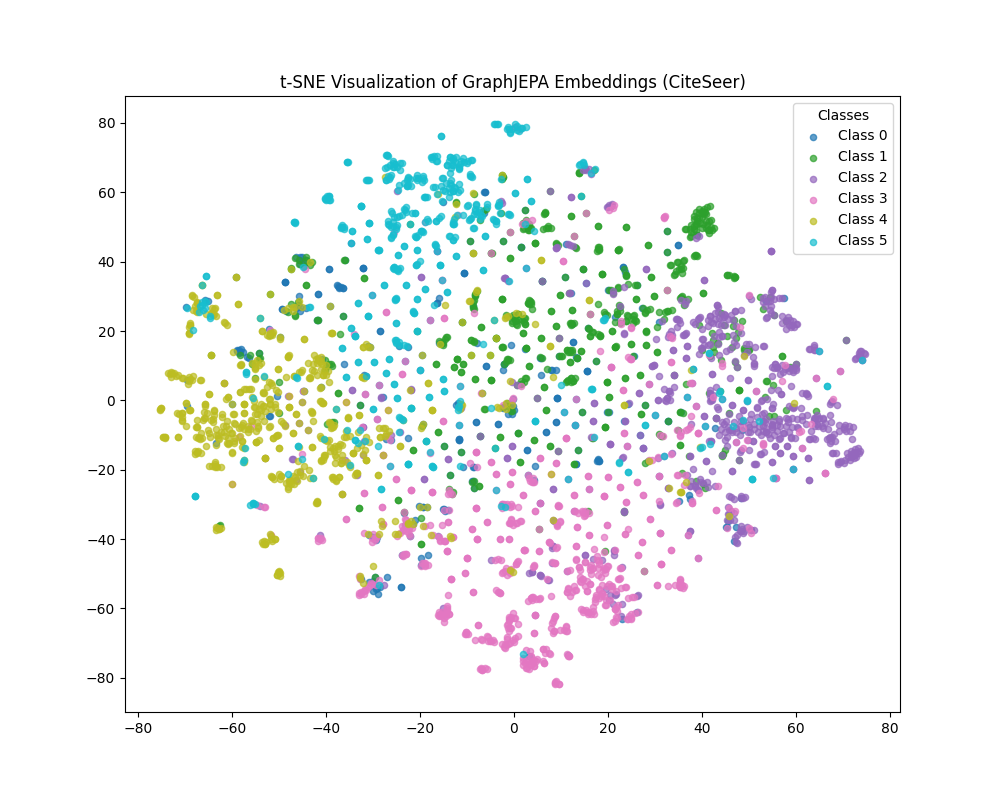
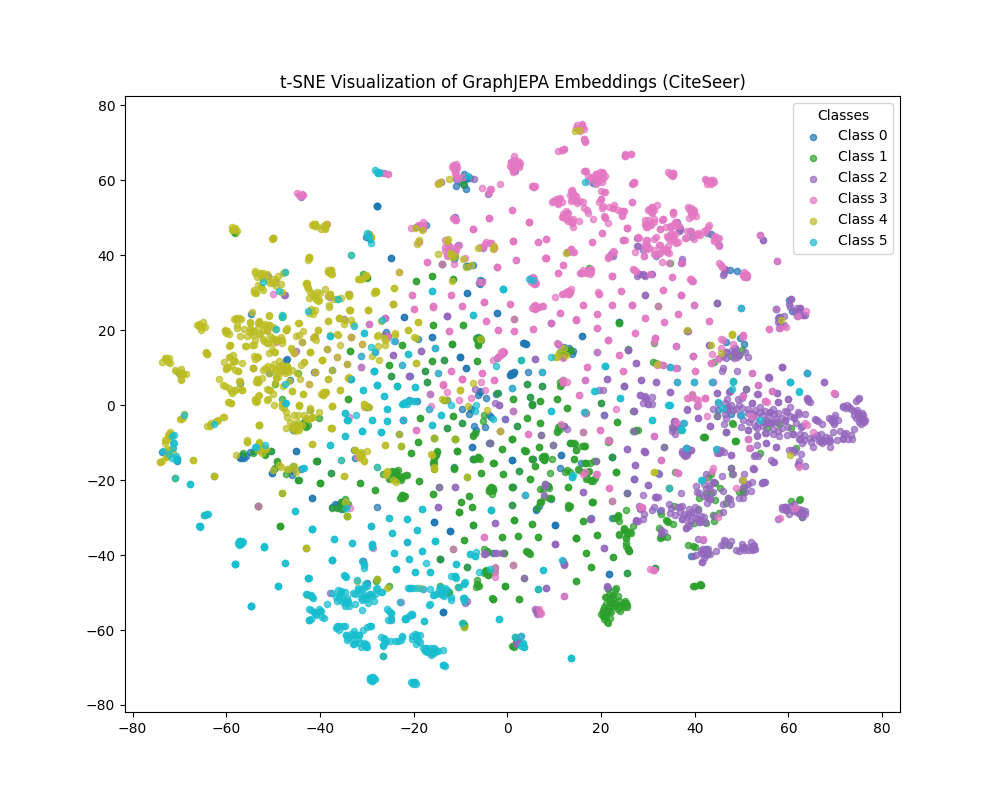
fix num_neighbors in NeighborLoader

diff --git a/pretrain_jepa.py b/pretrain_jepa.py
@@ -100,7 +100,7 @@ if __name__ == "__main__":
     
     train_loader = NeighborLoader(
         data,
-        num_neighbors=[-1]*10,
+        num_neighbors=[-1]*6,
         batch_size=Config.batch_size,
         shuffle=True,
         generator=g
